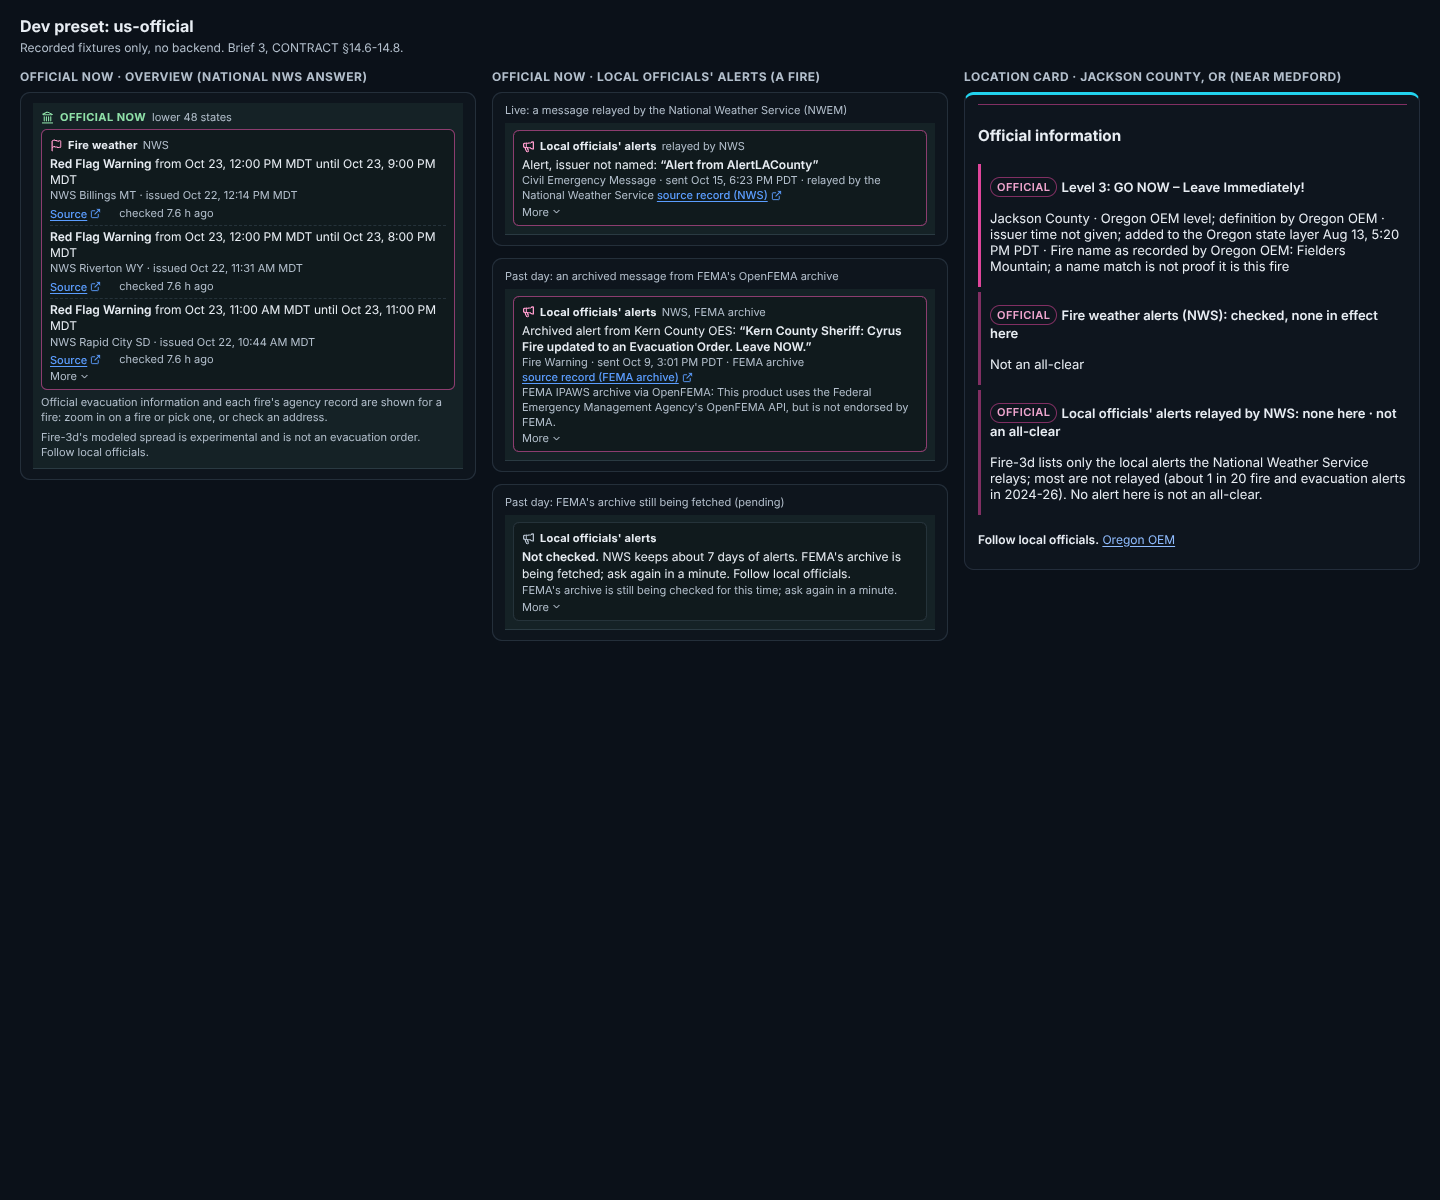
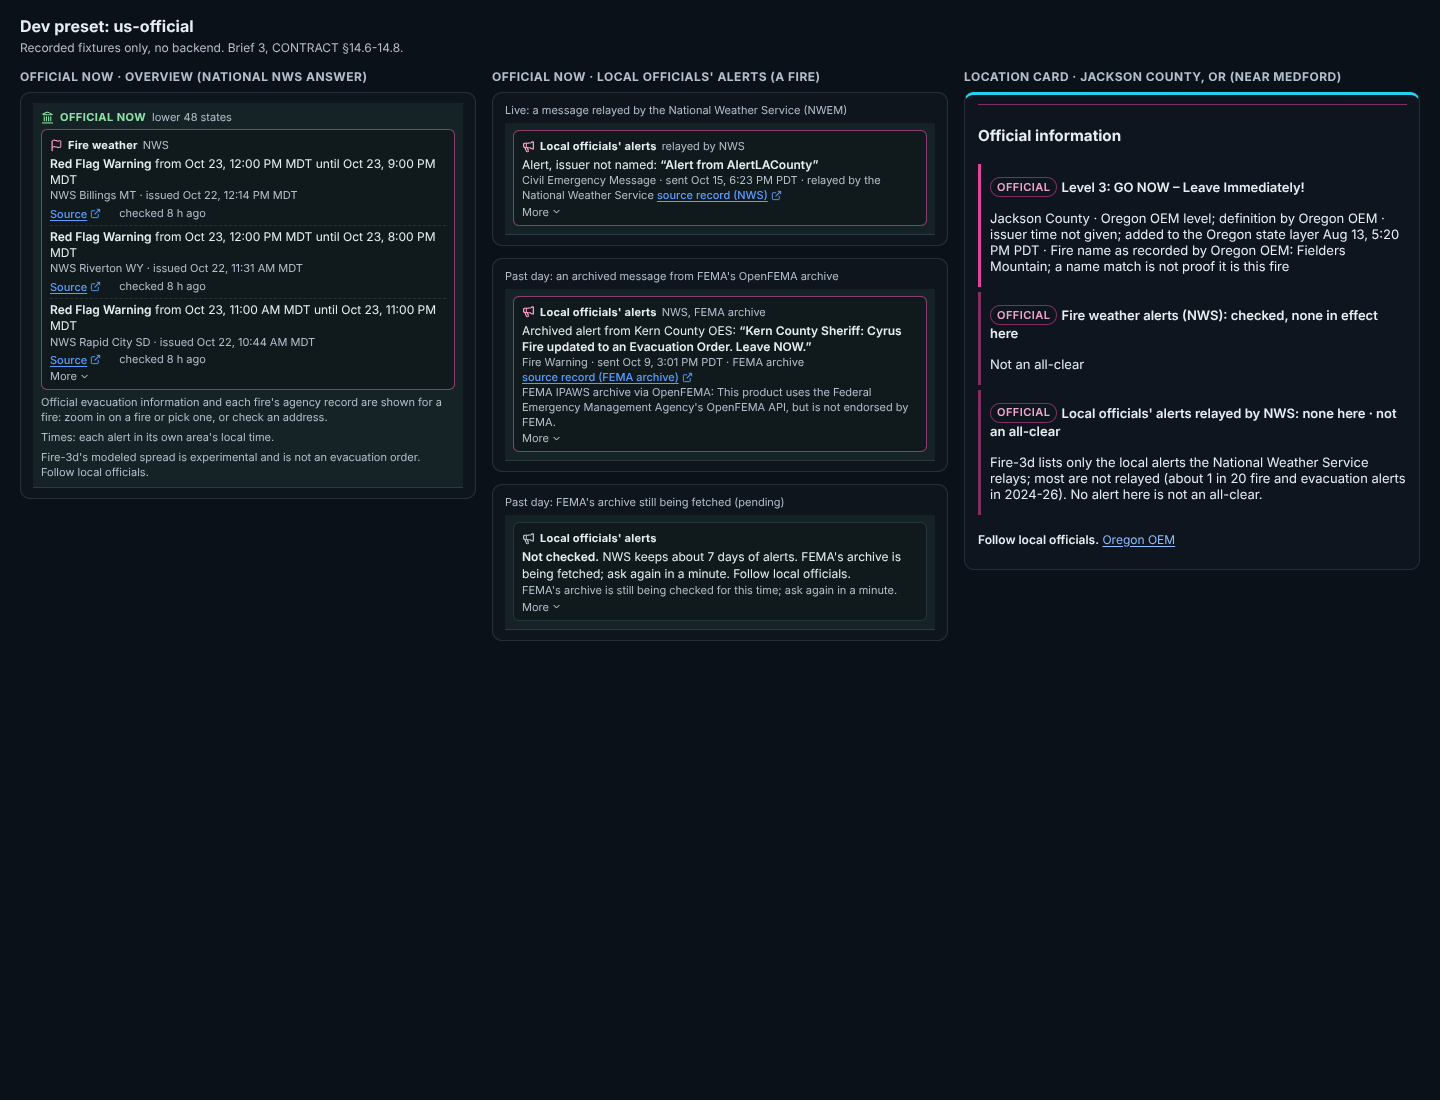
brief 3 us-official: cut-line items (W12 cameras wording, W13 imagery platform labels), screenshot fixes (phone check time, demo NWS 'not checked', short record labels), screenshots, report
Claude-Session: https://claude.ai/code/session_016JQLLLPiy3zrdDeXcY1uZS

Changed region(s): [[0.3438, 0.0618, 0.625, 0.5564], [0.6562, 0.0618, 1.0, 0.4945], [0.0, 0.0, 0.3125, 0.4327]]

diff --git a/web/src/location/official.test.ts b/web/src/location/official.test.ts
@@ -86,7 +86,7 @@ describe('officialBlock: the evacuation line is always present and honest', () =
     expect(b.evacuation).toEqual([expect.objectContaining({ text: 'No evacuation order or warning listed here', official: true, tone: 'quiet' })])
     expect(b.evacuation[0].sub).toBe('Cal OES, checked 2 min ago · not an all-clear')
     // on phones too
-    expect(b.evacuation[0].subCompact).toBe('Cal OES · not an all-clear')
+    expect(b.evacuation[0].subCompact).toBe('Cal OES, checked 2 min ago · not an all-clear')
   })
   it('not checked, past date, unavailable and loading are said as such', () => {
     const nc = officialBlock(info({ state: 'not-checked', checkedMs: null, reason: 'Not checked here: Fire-3d reads Cal OES zones only near the selected fire and the selected point.' }), CTX)
@@ -125,7 +125,7 @@ describe('NWS fire weather in the card', () => {
     expect(b.fireWeather[0].sub).toBe('NWS San Diego CA · a weather warning, not an evacuation order')
     // the sender and the caveat stay on a phone's short card too (as does "not an all-clear" on the evacuation line)
     expect(b.fireWeather[0].subCompact).toBe('NWS San Diego CA · a weather warning, not an evacuation order')
-    expect(b.evacuation[0].subCompact).toBe('Cal OES · not an all-clear')
+    expect(b.evacuation[0].subCompact).toBe('Cal OES, checked 2 min ago · not an all-clear')
     const longSender = officialBlock(info({}, { state: 'active', alerts: [alert({ senderName: 'National Weather Service Los Angeles/Oxnard CA' })] }), CTX)
     expect(longSender.fireWeather[0].sub).toMatch(/^NWS Los Angeles\/Oxnard CA · /)
     const arch = officialBlock(info({}, { state: 'active', archived: true, alerts: [alert({ archived: true, phase: 'upcoming', timeText: 'from Jan 7, 04:00 PST' })] }), CTX)
@@ -158,7 +158,7 @@ describe('evacuation lines outside California (brief 3)', () => {
   const oem = { id: 'or_oem_evacuations', aggregator: 'Oregon OEM', credit: 'Oregon Department of Emergency Management', url: 'https://www.arcgis.com/home/item.html?id=dd2bee51e3004dc4b1004df34fbd9e29', homeState: 'OR', answered: true, checkedMs: NOW - 120_000, updatedMs: NOW - 3_600_000, reason: null }
   it('Oregon, none listed: "No evacuation order or warning listed here · Oregon OEM, checked … · not an all-clear", with the OEM link and no Cal OES', () => {
     const b = officialBlock({ ...info({ checkedBy: 'Oregon OEM', sources: [oem], sourceUrl: oem.url }), calfire: { state: 'unavailable' } }, { ...CTX, incidentUrl: null })
-    expect(b.evacuation[0]).toMatchObject({ text: 'No evacuation order or warning listed here', sub: 'Oregon OEM, checked 2 min ago · not an all-clear', subCompact: 'Oregon OEM · not an all-clear', official: true })
+    expect(b.evacuation[0]).toMatchObject({ text: 'No evacuation order or warning listed here', sub: 'Oregon OEM, checked 2 min ago · not an all-clear', subCompact: 'Oregon OEM, checked 2 min ago · not an all-clear', official: true })
     expect(b.links).toEqual([{ label: 'Oregon OEM', url: oem.url }])
     expect(JSON.stringify(b)).not.toMatch(/Cal OES/)
   })

diff --git a/web/src/ui/shell/dataStatus.ts b/web/src/ui/shell/dataStatus.ts
@@ -42,7 +42,7 @@ export interface OfficialStatusInput {
   evacuation?: (Pick<EvacuationOfficial, 'state'> & Partial<Pick<EvacuationOfficial, 'checkedMs' | 'sourceUpdatedMs' | 'reason' | 'sources' | 'checkedBy'>> & { zones?: readonly unknown[] }) | null
   fireWeather?: { state: string; checkedMs?: number | null; alerts?: readonly { archived?: boolean }[] } | null
   /** The fire's agency record (CAL FIRE's or NIFC WFIGS's; `issuer` / `source` from official/record.ts). */
-  calfire?: { state: string; updatedMs?: number | null; acres?: number | null; percentContained?: number | null; isActive?: boolean | null; issuer?: string; source?: 'calfire' | 'wfigs' | null; synthetic?: boolean } | null
+  calfire?: { state: string; updatedMs?: number | null; acres?: number | null; percentContained?: number | null; isActive?: boolean | null; issuer?: string; linkLabel?: string; source?: 'calfire' | 'wfigs' | null; synthetic?: boolean } | null
 }
 
 export interface DataStatusInput {
@@ -233,13 +233,15 @@ export function officialRows(inp: Pick<DataStatusInput, 'summary' | 'official'>,
     // labelled from the record's issuer (CONTRACT §14.5): never "CAL FIRE" for a NIFC WFIGS record
     const wfigs = cf?.source === 'wfigs'
     const issuer = cf?.issuer ?? 'CAL FIRE'
+    // a long issuer keeps the row label short ("Agency record"); the detail names the issuer in full
+    const short = issuer.length > 18 ? 'Agency' : issuer
     out.push({
       key: 'record',
-      label: `${issuer} record`,
+      label: `${short} record`,
       // a past fire's record is often edited long after the fire: always show the year and say what the time is
       value: live ? at(recordMs) : fmtAt(recordMs, tf, { year: 'always', zone: true }),
       tMs: recordMs,
-      detail: live ? facts || `${issuer}’s latest update of the incident` : `Last edit of ${issuer}’s record${facts ? ` · ${facts}` : ''}`,
+      detail: live ? `${short !== issuer ? `${issuer} · ` : ''}${facts || `${issuer}’s latest update of the incident`}` : `Last edit of ${issuer}’s record${facts ? ` · ${facts}` : ''}`,
       age: live ? fmtRelative(recordMs, nowMs) : null,
       stale: false,
       tip: wfigs

diff --git a/web/src/ui/feed/OfficialNow.tsx b/web/src/ui/feed/OfficialNow.tsx
@@ -230,7 +230,9 @@ function RecordRow({ c, nowMs, wallMs, live }: { c: CalFireOfficial; nowMs: numb
   const tf = useTimeFormat()
   // labelled from the record's issuer (CONTRACT §14.5): "CAL FIRE", "USFS (USDA Forest Service) via NIFC WFIGS"
   const issuer = c.issuer ?? 'CAL FIRE'
-  const label = issuer
+  // a long issuer ("USFS (USDA Forest Service) via NIFC WFIGS") is named in full in the row's text; the header keeps
+  // the publisher's short name so the link stays visible
+  const label = issuer.length > 18 ? (c.linkLabel ?? issuer) : issuer
   const source = 'incident record'
   const icon = <ShieldAlert size={13} />
   const mode = useStore((s) => (s.manifest?.status === 'ready' ? s.manifest.mode : (s.summary?.mode ?? s.mode)))
@@ -275,7 +277,7 @@ function RecordRow({ c, nowMs, wallMs, live }: { c: CalFireOfficial; nowMs: numb
       </>
     ) : undefined
   return (
-    <Row icon={icon} label={label} source={source} tone="info" aside={<SourceLink href={c.url}>{cf ? 'Incident page' : 'NIFC WFIGS record'}</SourceLink>} more={extra}>
+    <Row icon={icon} label={label} source={source} tone="info" aside={<SourceLink href={c.url}>{cf ? 'Incident page' : 'Record'}</SourceLink>} more={extra}>
       <p className="on-line">
         <strong className="on-official">
           {join([
@@ -339,7 +341,7 @@ function FireWeatherRow({ f, nowMs, wallMs, metric, statewide = false }: { f: Fi
     return (
       <Row icon={icon} label={label} source={source} tone="muted">
         <p className="on-line">
-          <strong>{f.state === 'past-date' ? 'Not available for this time.' : 'Unavailable right now.'}</strong> {f.reason ?? ''} That does not mean there were no alerts.
+          <strong>{f.state === 'past-date' ? 'Not available for this time.' : f.reasonCode === 'demo' || f.reasonCode === 'not_checked' ? 'Not checked.' : 'Unavailable right now.'}</strong> {reasonSentence(f.reason)}That does not mean there were no alerts.
         </p>
       </Row>
     )

diff --git a/web/src/extras/imagery.ts b/web/src/extras/imagery.ts
@@ -24,7 +24,7 @@ export const FAMILY_LABEL: Record<ImageryFamily, string> = {
   'sentinel-2': 'Sentinel-2 (10 m)',
   landsat: 'Landsat 8/9 (30 m)',
   viirs: 'VIIRS daily (375 m)',
-  goes: 'GOES-West, every 10 min (1-2 km)',
+  goes: 'GOES, every 10 min (1-2 km)',
 }
 export const FAMILY_ORDER: ImageryFamily[] = ['sentinel-2', 'landsat', 'viirs', 'goes']
 
@@ -127,12 +127,13 @@ export function orderedProducts(data: ImageryResponse | null, startedMs: number 
 }
 
 /** Rows of the panel's list with a heading where the group changes ("Since the fire started", "Before the fire
- *  (context)", "GOES-West …"); `ordered` comes from orderedProducts. */
+ *  (context)", "<GOES platform> …", named from the product's `platform`); `ordered` comes from orderedProducts. */
 export function withGroupHeadings(ordered: readonly ImageryProduct[], refMs: number, startedMs: number | null, live: boolean): { p: ImageryProduct; t: ImageryTiming; heading: string | null }[] {
   let last: string | null = null
   return ordered.map((p) => {
     const t = imageryTiming(p, refMs, startedMs, live)
-    const group = p.family === 'goes' ? 'GOES-West: every 10 min, 1-2 km pixels' : t.beforeFire ? 'Before the fire (context)' : startedMs != null ? 'Since the fire started' : 'Newest'
+    // W13: the satellite named from the product's own platform ("GOES-West", later "GOES-East")
+    const group = p.family === 'goes' ? `${p.platform || 'GOES'}: every 10 min, 1-2 km pixels` : t.beforeFire ? 'Before the fire (context)' : startedMs != null ? 'Since the fire started' : 'Newest'
     const heading = group !== last ? group : null
     last = group
     return { p, t, heading }

diff --git a/web/src/extras/imagery.test.ts b/web/src/extras/imagery.test.ts
@@ -14,6 +14,8 @@ import {
   pickDefaultImagery,
   productsByFamily,
   resolutionText,
+  withGroupHeadings,
+  platformText,
 } from './imagery'
 import type { ImageryProduct, ImageryResponse } from './types'
 import { setCaliforniaCommandClock } from './__fixtures__/clock.testutil'
@@ -178,5 +180,15 @@ describe('legend, credits and feed', () => {
     // with the fire start known, scenes from before the fire are context, not updates
     expect(imageryFeedItems(IMAGERY_SAMPLE, range, COOLEY_START)).toEqual([])
     expect(imageryFeedItems(IMAGERY_SAMPLE, range, Date.UTC(2026, 9, 9)).map((i) => i.title)).toEqual(['Satellite image acquired: Sentinel-2C (10 m)'])
+  })
+})
+
+describe('imagery labels from each product\'s platform (brief 3, W13)', () => {
+  it('a GOES product is named by its own platform, never a fixed GOES-West', () => {
+    const goes = IMAGERY_SAMPLE.products.find((p) => p.family === 'goes')!
+    const east = { ...goes, id: 'goes-east-x', platform: 'GOES-East' }
+    const rows = withGroupHeadings([east], east.acquired_ms + 3_600_000, null, true)
+    expect(rows[0].heading).toBe('GOES-East: every 10 min, 1-2 km pixels')
+    expect(platformText(east)).toBe('GOES-East')
   })
 })

diff --git a/web/src/location/official.ts b/web/src/location/official.ts
@@ -123,7 +123,8 @@ function evacuationLines(e: EvacuationOfficial, c: OfficialContext & { tf: TimeF
       // CONTRACT §14.8.5: "No evacuation order or warning listed here · {Oregon OEM}, checked {time} · not an all-clear"
       const who = e.checkedBy ?? 'Cal OES'
       return [
-        { key: 'evac-none', text: 'No evacuation order or warning listed here', sub: `${who}${checked ? `, ${checked}` : ''} · not an all-clear`, subCompact: `${who} · not an all-clear`, official: true, tone: 'quiet', url: null },
+        // phones keep the check time too: "none" means something only with who checked and when
+        { key: 'evac-none', text: 'No evacuation order or warning listed here', sub: `${who}${checked ? `, ${checked}` : ''} · not an all-clear`, subCompact: `${who}${checked ? `, ${checked}` : ''} · not an all-clear`, official: true, tone: 'quiet', url: null },
       ]
     }
     case 'not-checked':

diff --git a/web/src/official/record.test.ts b/web/src/official/record.test.ts
@@ -89,7 +89,8 @@ describe('the record of a NIFC WFIGS fire (Horse Gulch, MT)', () => {
     expect(feed[0].notes?.[0]).toBe('USFS (USDA Forest Service) via NIFC WFIGS last updated this record Aug 2, 09:30 MDT.')
     const rows = buildDataStatus({ summary: s, manifest: null, perimeters: null, detections: null, forecast: null, weather: null, official: { calfire: st } }, NOW)
     const rec = rows.find((r) => r.key === 'record')!
-    expect(rec.label).toBe('USFS (USDA Forest Service) via NIFC WFIGS record')
+    expect(rec.label).toBe('Agency record')
+    expect(rec.detail).toBe('Last edit of USFS (USDA Forest Service) via NIFC WFIGS’s record · 9,450 ac · 100% contained')
     const line = summaryRecordLine(st, NOW)
     expect(line.label).toBe('USFS (USDA Forest Service) via NIFC WFIGS')
     expect(JSON.stringify([st, feed, rec, line])).not.toMatch(/CAL FIRE/)

diff --git a/web/src/extras/EvacuationPanel.tsx b/web/src/extras/EvacuationPanel.tsx
@@ -60,7 +60,7 @@ export function EvacuationPanel({ state, onShowZone, selectedZoneId }: Evacuatio
             </p>
           ))
         ) : (
-          <p className="xs-meta">{freshnessText(data, now, `${answeredNames(data) ?? 'Cal OES'} data last changed`, tf)}</p>
+          <p className="xs-meta">{freshnessText(data, now, `${answeredNames(data) ?? 'Source'} data last changed`, tf)}</p>
         )
       ) : (
         <ExtrasNotice line={line} onRetry={state.error ? state.refresh : undefined} />

diff --git a/web/src/ui/feed/updatesFeed.css b/web/src/ui/feed/updatesFeed.css
@@ -812,3 +812,8 @@
   line-height: 1.35;
   color: var(--m-text-2);
 }
+
+/* data status zone line ("Times: Mountain Time (MDT), the fire's local time"; CONTRACT §14.9.1) */
+.mw-status-zone {
+  padding: 0 14px 10px;
+}

diff --git a/docs/redesign/contract3/us-official.md b/docs/redesign/contract3/us-official.md
@@ -218,3 +218,42 @@ fetching, envelope).
 - Tests that check the brief-2 California strings through the defaults set a California place in Command once
   (`extras/__fixtures__/clock.testutil.ts`, `setCaliforniaCommandClock()`); new tests check Montana (MST/MDT,
   12-hour Public) in the data status, Denver and New York in `fmtStatusTimeAt`, Denver 12-hour in the card.
+
+## Cut line items and final fixes
+
+- (a) W12 cameras panel wording: **done** (backend sentence of §14.8.6; `envelopeStatusLine` titles a
+  `state_not_available` answer "Public cameras: not available in this state" with the backend's sentence; screenshot
+  `docs/screenshots/brief3-us-official-cameras-nonca-desktop.png`).
+- (b) W13 imagery labels: **done** (the GOES group heading comes from each product's `platform`; `FAMILY_LABEL.goes`
+  "GOES, every 10 min (1-2 km)"). GOES-East imagery itself stays deferred (B-R15).
+- After the screenshots: a "none listed" evacuation line keeps its check time on phones too ("Oregon OEM, checked 1
+  min ago · not an all-clear"); demo/not-checked NWS rows say "Not checked." (not "Unavailable right now."); a long
+  record issuer keeps the Official now header and the data-status label short ("NIFC WFIGS" / "Agency record") and
+  names the issuer in full in the row text.
+
+## Deviations from §14 (also in the report)
+
+1. `sources[]` entries of `/api/extras/evacuations` carry one more additive field, `aggregator` ("Cal OES" / "Oregon
+   OEM"), so the web never derives the short name from `publisher`.
+2. `EvacAdapter` has three derived properties (`upstream_name`, `layer_what`, `none_caveat`), no extra fields.
+3. Several states without a feed: "Official evacuation zones are not available in these states (Nevada, Utah)."
+   (§14.14 has only the singular sentence.)
+4. The state check comes before the past-date check: a past time in a state without a feed answers
+   `state_not_available` (California past answers are unchanged).
+5. `OfficialLine.urlLabel` (optional) names each local-alert link; us-web's `OfficialSection` still renders "Read it"
+   (integration: show `urlLabel` when present).
+6. `OfficialInfo.calfire` holds the source-neutral `RecordStatus` (field name kept for us-web's call sites); the
+   location card's record link label comes from `linkLabel`.
+7. Quoted local-alert text prefers the WEA text, then the headline, then the description (us-pipeline's note said
+   headline first), and is cut at 220 characters with "…" (the full texts are behind "More").
+
+## Files (us-official, brief 3)
+
+Backend: `fire3d/sources/evacuations.py` (new), `fire3d/api/extras.py`, `scripts/record_test_samples_evacuations.py`
+(new), `tests/test_evacuations_sources.py` (new), `tests/data/evacuations/**` (new). Web: `official/{model,hooks,
+client,runtime,types,calfire,fireWeather,mapLayer}.ts`, `official/{record,localAlerts}.ts` (new) and their tests,
+`official/__fixtures__/{localAlerts,national}.ts` (new), `extras/{evacuation,format,credits,cameras,imagery,types,
+hooks,runtime}.ts`, `extras/{EvacuationPanel,CameraPanel,ImageryPanel}.tsx`, `extras/__fixtures__/{samplesUs,
+clock.testutil}.ts` (new), `extras/dev/{presets.ts,main.tsx,DevApp.tsx,dev.css,UsOfficialPreset.tsx,usOfficialSeed.ts}`,
+`ui/feed/{OfficialNow.tsx,UpdatesFeed.tsx,feedModel.ts,feedMeta.ts,types.ts,updatesFeed.css}`,
+`ui/shell/{officialSummary.ts,dataStatus.ts,UpdatesPanel.tsx,LayersPanel.tsx}`, `location/official.ts` and tests.

diff --git a/docs/redesign/progress/brief3-us-official.md b/docs/redesign/progress/brief3-us-official.md
@@ -29,9 +29,12 @@ Started 2026-10-23 ~01:45 UTC (late start; us-catalog finished, us-web past M5, 
 - M5 committed f6ddb54. Container restarted ~02:50 UTC (servers gone). M6: time migration done, checker 0/0,
   zone lines; gates tc 0, lint 55, 67 files / 1078, build OK.
 
+- M6 committed 77291ab. Screenshots taken and viewed (dev preset, overview, Reno, Brookings phone, fixture-east,
+  cameras non-CA, Eaton Command, Horse Gulch Command/Public); 0 non-GET (239 GET). Cut line (a) W12 and (b) W13 done.
+  Final gates: tc 0, lint 55 (scene), 67 files / 1079, build OK, pytest 878, check-time-api 0/0.
+
 ## Next
-- Screenshots (overview, Reno, Brookings, fixture-east Command, cameras non-CA, Eaton Command, Horse Gulch), backend
-  pytest, wording scan, key scan, report. Kill servers on 8713/5183.
+- Write the report (docs/redesign/reports/brief3-us-official.json), commit, kill servers, hand back.
 
 ## Decisions
 - State check before the past-date check (a Nevada replay says not available, not 'past dates').
